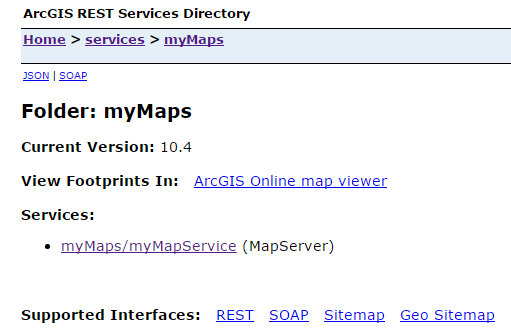
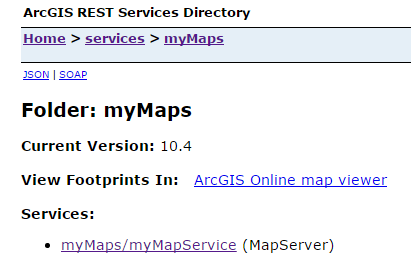
Adds pip output and fixes image size

diff --git a/InProgress/slap/slap.md b/InProgress/slap/slap.md
@@ -21,6 +21,17 @@ If you're not sure how to set these things up, see [Setting up a new Python envi
 pip install slap
 ```
 
+You should see output similar to:
+
+```shell
+Collecting slap
+  Downloading https://testpypi.python.org/packages/d7/f0/0c7b09f1478557e06cfb4df161bde790c9974ee56122127389a9704663be/slap-3.0.0.dev5-py2-none-any.whl
+Collecting requests (from slap)
+  Downloading https://testpypi.python.org/packages/6d/00/8ed1b6ea43b10bfe28d08e6af29fd6aa5d8dab5e45ead9394a6268a2d2ec/requests-2.5.4.1-py2.py3-none-any.whl (468kB)
+Installing collected packages: requests, slap
+Successfully installed requests-2.5.4.1 slap-3.0.0.dev5
+```
+
 ## Configuration 
 Slap uses a configuration file to determine where and how to publish map services; this configuration file is in standard [json](https://www.copterlabs.com/json-what-it-is-how-it-works-how-to-use-it/) format, and can be generated using slap itself.  To create the bare-bones configuration file that `slap` will use to publish services, open your command prompt and do:
 
